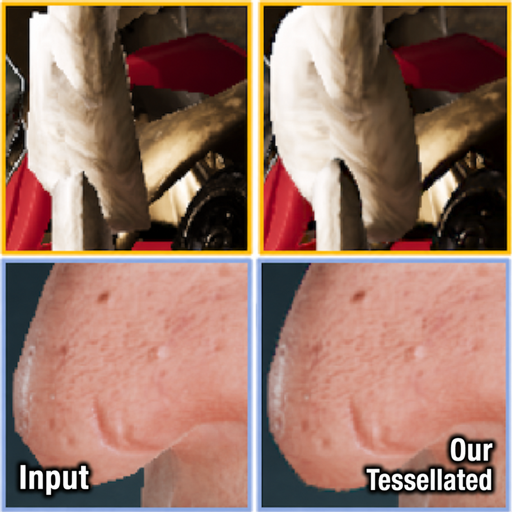
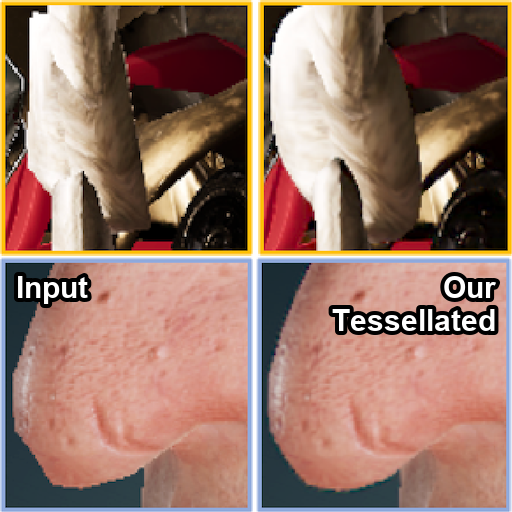
Update alumni details and NIST labels

diff --git a/index.html b/index.html
@@ -809,7 +809,7 @@ hr.style-two {
 
       Current Visiting Student(s): Changkun Li, Yuchen Song<br>
 
-      Alumni: <a href="https://dcjmj.github.io/" target="_blank">Tao Huang</a> (PhD, now at Tencent), <a href="https://poiw.github.io/" target="_blank">Songyin Wu</a> (PhD, now at NVIDIA), <a href="https://zheng95z.github.io/" target="_blank">Zheng Zeng</a> (PhD, now at NVIDIA), <a href="https://seaform.moe/" target="_blank">Minghao Huang</a> (MS), <a href="https://leonkang130.github.io/" target="_blank">Liangfu Kang</a> (MS), <a href="https://zcy.moe/" target="_blank">Chuyan Zhang</a> (MS), <a href="https://linktr.ee/mangosister" target="_blank">Yang Zhou</a> (PhD, now at Meta), <a href="https://junqiuzhu.github.io/" target="_blank">Junqiu Zhu</a> (Postdoc, now at Shandong University), Lara Floegel-Shetty (MS, now at Apple), <a href="http://www.shlomisteinberg.com/" target="_blank">Shlomi Steinberg</a> (PhD, now at U Waterloo), Jinglei Yang (MS, now at Amazon), Lei Xu (MS, now at Meta)</p>
+      Alumni: <a href="https://dcjmj.github.io/" target="_blank">Tao Huang</a> (MS, now at Tencent), <a href="https://poiw.github.io/" target="_blank">Songyin Wu</a> (PhD, now at NVIDIA), <a href="https://zheng95z.github.io/" target="_blank">Zheng Zeng</a> (PhD, now at NVIDIA), <a href="https://seaform.moe/" target="_blank">Minghao Huang</a> (MS), <a href="https://leonkang130.github.io/" target="_blank">Liangfu Kang</a> (MS), <a href="https://zcy.moe/" target="_blank">Chuyan Zhang</a> (MS, now at TU Wien), <a href="https://linktr.ee/mangosister" target="_blank">Yang Zhou</a> (PhD, now at Meta), <a href="https://junqiuzhu.github.io/" target="_blank">Junqiu Zhu</a> (Postdoc, now at Shandong University), Lara Floegel-Shetty (MS, now at Apple), <a href="http://www.shlomisteinberg.com/" target="_blank">Shlomi Steinberg</a> (PhD, now at U Waterloo), Jinglei Yang (MS, now at Amazon), Lei Xu (MS, now at Meta)</p>
 
       <a class="anchor" name="teaching"></a>
       <hr class="style-two">
@@ -2502,7 +2502,7 @@ hr.style-two {
 
           <p>I play piano a little bit, but classic only (with a National Piano Certificate of Level 10 in China, topmost for non-professional amateurs). I'm especially fond of Chopin's. Here are some short recordings of my home performance (F. Chopin: Waltz <a href="https://youtu.be/13BwVgQ54VM" target="_blank">Op. 64. No. 2 in C-Sharp Minor</a>, Nocturne <a href="https://youtu.be/4ku4NZFuEfM" target="_blank">Op. 9 No. 1 in B-Flat Minor</a> and <a href="https://youtu.be/9_g_3hJsN5c" target="_blank">Op. 9 No. 2 in E-Flat Major</a>). I'll upload more as my website continues to update.</p>
 
-          <p>My legal name spelling should be <em>Lingqi Yan</em>, and I only use <em>Ling-Qi Yan</em> for publications (due to some lab traditions at Tsinghua University). My name is pronounced as Ling--Chi--Yen, and here are some <a href="#nameModal" data-toggle="modal">funny mistakes</a> about how people usually call me (and I like them all).</p>
+          <p>My legal name spelling should be <em>Lingqi Yan</em>, and I only use <em>Ling-Qi Yan</em> for publications (due to some lab traditions at Tsinghua University). I am now gradually standardizing on the spelling <em>Lingqi Yan</em>. My name is pronounced as Ling--Chi--Yen, and here are some <a href="#nameModal" data-toggle="modal">funny mistakes</a> about how people usually call me (and I like them all).</p>
 
           <!-- Modal -->
           <div class="modal fade" id="nameModal" role="dialog">
